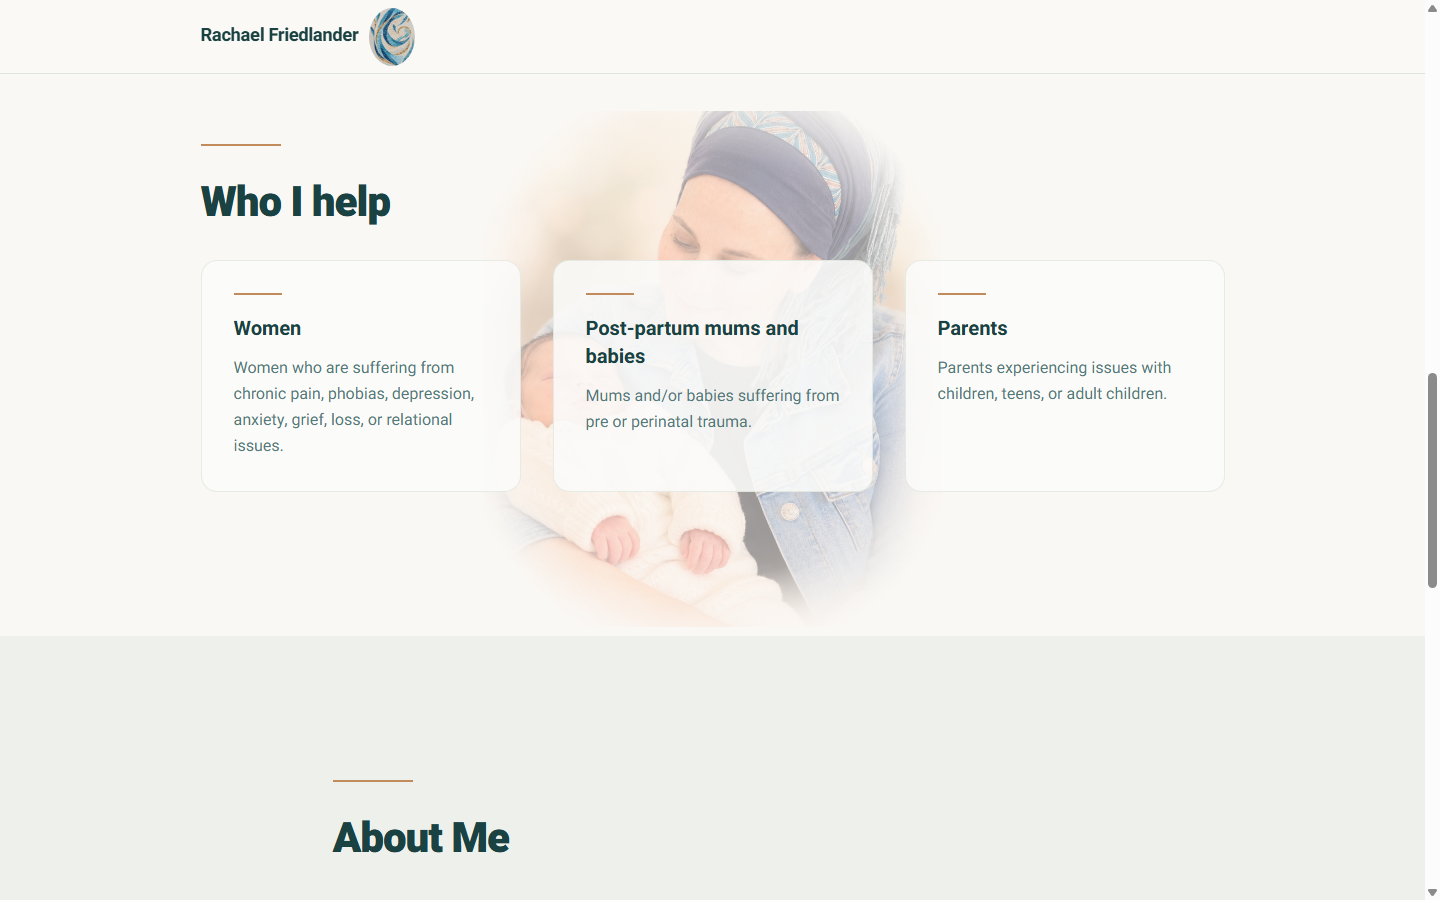
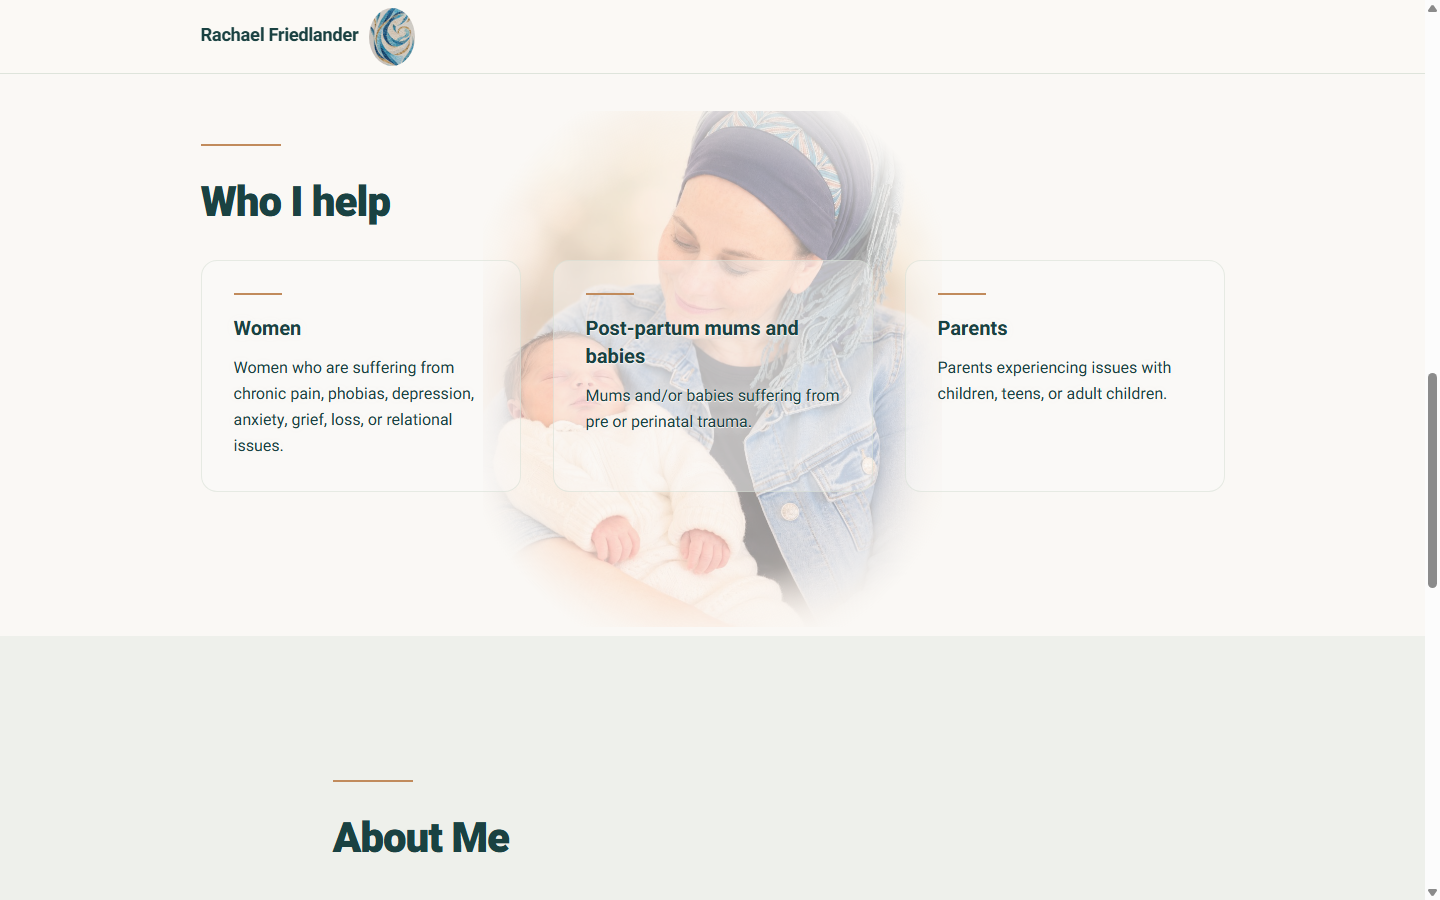
Pictures - fix 3

Changed region(s): [[0.3438, 0.28, 0.625, 0.56], [0.1562, 0.4044, 0.3125, 0.4978], [0.6562, 0.4044, 0.8125, 0.4667]]

diff --git a/styles.css b/styles.css
@@ -307,7 +307,15 @@ p {
 }
 
 .band-help .card {
-  background: rgba(251, 250, 249, 0.88);
+  background: rgba(251, 250, 249, 0.38);
+}
+
+.band-help .card h3,
+.band-help .card p {
+  color: var(--ink);
+  text-shadow:
+    0 0 12px rgba(250, 248, 245, 0.95),
+    0 1px 0 rgba(250, 248, 245, 0.9);
 }
 
 .card .rule {
